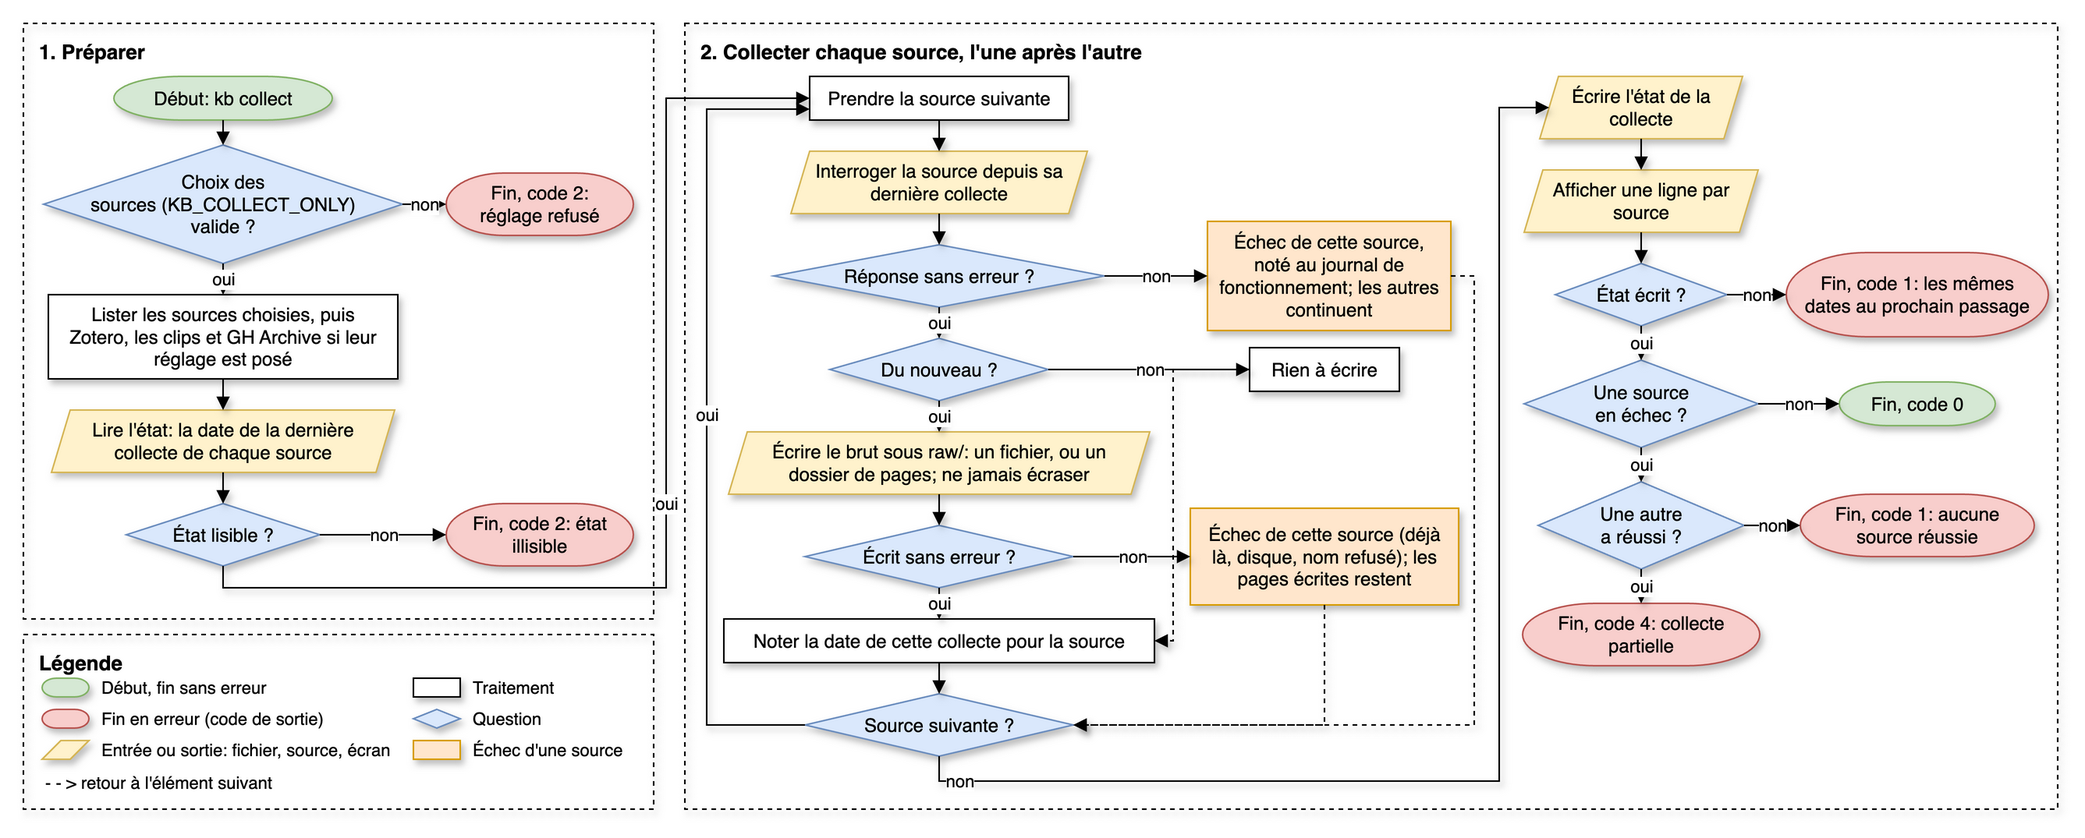
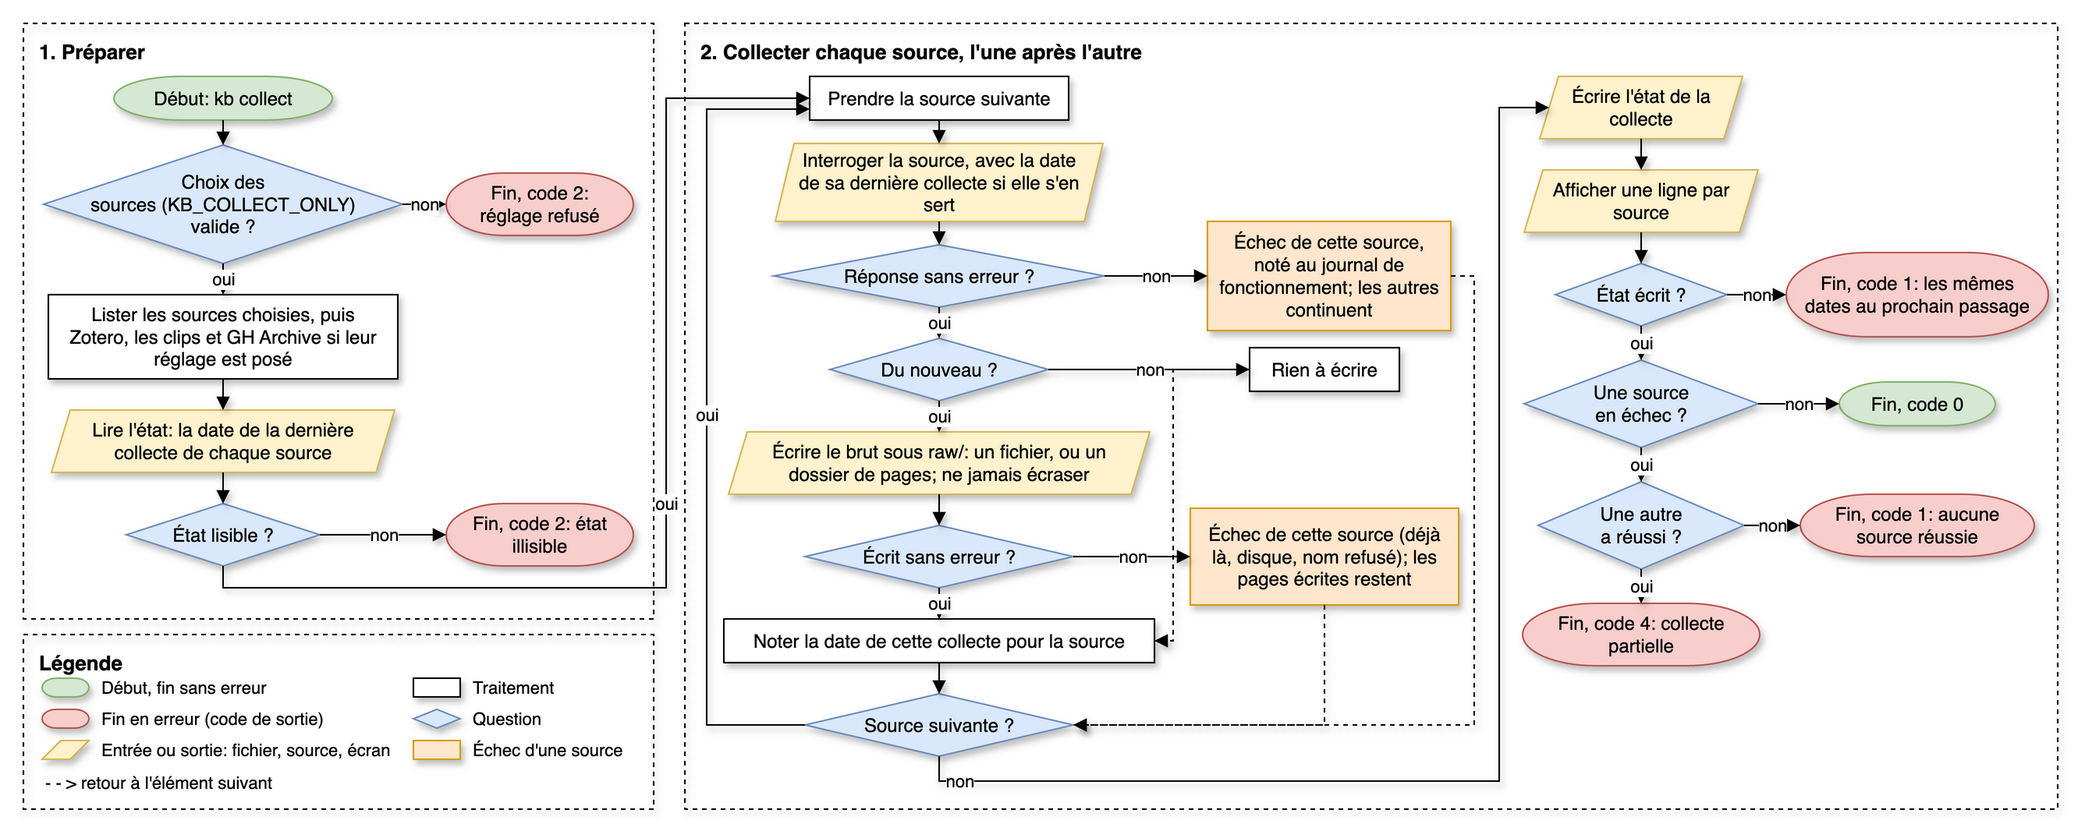
docs: apply the triaged review of the logic diagrams: the loops ask first, the journal and the commit can fail, the lock, the withdrawal and the fetch made exact, a note for code 1; and in the text the signals, the first collection, the temporary file, the GitHub quota and the refused command line (

Changed region(s): [[0.3726, 0.1535, 0.5279, 0.2763]]

diff --git a/documentation/import_et_base_pour_docu.md b/documentation/import_et_base_pour_docu.md
@@ -238,23 +238,29 @@ visent le commit `36c1e02`.
     sort en 2, et rien n'est collecté (`etl/collected_sources.py:64-86`).
 2. **La liste des sources.** Les sources choisies, dans l'ordre de `SOURCE_KINDS`, puis Zotero, les clips et
     GH Archive, chacun si sa variable est posée: `KB_ZOTERO_DIR`, `KB_VAULT_DIR`, `GOOGLE_APPLICATION_CREDENTIALS`
-    (`etl/collected_sources.py:110-131`). Sans `KB_GITHUB_TOKEN`, le journal de fonctionnement dit que l'API GitHub
-    accorde 60 requêtes par heure au lieu de 5 000 (`commands/collect_command.py:81-94`).
-3. **L'état.** `collection_state.json` donne la date de la dernière collecte réussie de chaque source. Absent, chaque
-    source collecte depuis le début; illisible, la commande sort en 2, et rien n'est collecté
-    (`etl/raw_store.py:188-216`, `commands/collect_command.py:54-56`).
+    (`etl/collected_sources.py:110-131`). Sans `KB_GITHUB_TOKEN`, si les releases ou les alertes GitHub sont
+    collectées, le journal de fonctionnement dit que l'API GitHub accorde 60 requêtes par heure au lieu de 5 000
+    (`commands/collect_command.py:29-34`, `commands/collect_command.py:81-94`).
+3. **L'état.** `collection_state.json` donne la date de la dernière collecte réussie de chaque source. Absent, ou sans
+    la source, la source fait sa première collecte, d'une étendue propre à chacune: sept jours pour tldr.tech, depuis
+    le 2026-05-01 pour arXiv (`etl/extract.py:69`, `core/config.py:29`, `core/config.py:37`). Illisible, la
+    commande sort en 2, et rien n'est collecté (`etl/raw_store.py:188-216`, `commands/collect_command.py:54-56`).
 4. **Chaque source, l'une après l'autre** (`etl/extract.py:63-91`). Le nom de la source et l'extension de ses
-    fichiers sont contrôlés, puis la source est interrogée depuis sa date (`etl/extract.py:118-123`). Sans rien de
+    fichiers sont contrôlés, puis la source est interrogée, avec la date de sa dernière collecte si elle s'en sert
+    (`etl/extract.py:118-123`): Zotero et les deux classements GitHub sont lus en entier à chaque fois
+    (`etl/sources/zotero.py:205-206`, `etl/sources/github/most_starred.py:34`,
+    `etl/sources/github/most_forked.py:33`). Sans rien de
     nouveau, rien n'est écrit (`etl/extract.py:124-125`). Sinon, le brut est écrit sous `raw/`: un fichier nommé par
     l'instant de la collecte, ou un dossier de ce nom avec un fichier par page (`etl/extract.py:126-142`). Chaque
     nom de page est contrôlé avant la première écriture: un nom refusé n'écrit rien (`etl/extract.py:133-137`).
-    Aucun fichier n'est écrasé: un fichier déjà là, ou le temporaire d'une autre écriture en cours, fait échouer la
-    source (`etl/raw_store.py:182-185`, `core/atomic_write.py:83-87`).
+    Aucun fichier n'est écrasé: un fichier déjà là, ou le temporaire d'une autre écriture, en cours ou interrompue,
+    fait échouer la source (`etl/raw_store.py:182-185`, `core/atomic_write.py:20-22`, `core/atomic_write.py:50-51`,
+    `core/atomic_write.py:83-87`, `core/atomic_write.py:95-100`).
 5. **L'échec d'une source.** Une erreur de la source ou de l'écriture est notée au journal de fonctionnement, avec
     sa trace si elle n'est pas prévue. La source garde sa date, les pages déjà écrites restent, et les autres sources
     continuent (`etl/extract.py:71-81`).
 6. **La date.** Une source réussie, même sans rien de nouveau, reçoit la date de cette collecte: l'instant du début
-    de la commande, le même pour toutes (`etl/extract.py:90`, `commands/collect_command.py:53`).
+    de la collecte, le même pour toutes (`etl/extract.py:90`, `commands/collect_command.py:53`).
 7. **L'état écrit, puis le résultat.** L'état est écrit après la dernière source (`etl/extract.py:93-99`,
     `etl/raw_store.py:219-230`). La commande affiche une ligne par source lancée, une par source sautée, et une pour
     l'état s'il n'est pas écrit (`commands/collect_command.py:62-78`).
@@ -265,9 +271,9 @@ Le tableau suivant donne les codes de sortie de `kb collect`.
 |---|---|---|
 | 0 | chaque source lancée a réussi | `commands/collect_command.py:115-124`, `commands/exit_codes.py:88-93` |
 | 1 | aucune source n'a réussi; ou l'état n'est pas écrit, et la collecte suivante repart des mêmes dates. Pour toute commande de `kb`, une exception que la commande ne traite pas: `kb` la journalise avec sa trace | `commands/collect_command.py:115-124`, `cli.py:261-265` |
-| 2 | `KB_COLLECT_ONLY` refusée, ou état illisible: rien n'est collecté. Pour toute commande de `kb`, `KB_DATA_DIR` ou `KB_LOG_TO_FILE` refusée, ou le fichier du journal de fonctionnement qui ne s'ouvre pas: rien n'est lancé | `commands/collect_command.py:42-46`, `commands/collect_command.py:54-56`, `cli.py:113-117`, `cli.py:232-240` |
+| 2 | `KB_COLLECT_ONLY` refusée, ou état illisible: rien n'est collecté. Pour toute commande de `kb`, `KB_DATA_DIR` ou `KB_LOG_TO_FILE` refusée, le fichier du journal de fonctionnement qui ne s'ouvre pas, ou la ligne de commande refusée: rien n'est lancé | `commands/collect_command.py:42-46`, `commands/collect_command.py:54-56`, `cli.py:113-117`, `cli.py:232-240`, `commands/exit_codes.py:33-39` |
 | 4 | collecte partielle: une source au moins a échoué, une autre au moins a réussi; l'état est écrit | `commands/exit_codes.py:48-57`, `commands/exit_codes.py:88-93` |
-| 143, 130 | SIGTERM, SIGINT (Ctrl-C): la collecte s'arrête; ce qui était écrit avant reste | `cli.py:252-260`, `commands/exit_codes.py:63-85` |
+| 143, 130 | SIGTERM, SIGINT (Ctrl-C): la collecte s'arrête; les fichiers bruts déjà écrits restent, mais l'état n'est pas écrit: chaque source garde sa date d'avant la commande, et la collecte suivante repart des mêmes dates | `cli.py:252-260`, `etl/extract.py:71`, `etl/extract.py:93-94`, `commands/exit_codes.py:63-85` |
 
 ## Le script d'agrégation et d'import: `kb import`
 
@@ -306,9 +312,9 @@ Le tableau suivant dit ce que compte chaque nombre du bilan.
 
 Les deux logigrammes de `kb import` en donnent la vue d'ensemble: lire et transformer, puis écrire en base, en une
 seule transaction. La liste numérotée de cette section, « Ce que l'import refuse, et ce qu'il garde » et le tableau
-des codes de sortie en donnent le détail, dont trois cas propres au texte: la page illisible, relue au prochain import
-(étape 3), les classements GitHub, jamais importés (étape 2), et la fenêtre de tendances déjà en base, écartée
-(étape 7). Les logigrammes suivent le commit `36c1e02`.
+des codes de sortie en donnent le détail, dont des cas propres au texte, par exemple la page illisible, relue au
+prochain import (étape 3), les classements GitHub, jamais importés (étape 2), et la fenêtre de tendances déjà en base,
+écartée (étape 7). Les logigrammes suivent le commit `36c1e02`.
 
 ![Logigramme de kb import, partie 1, lire et transformer, décrit en texte dans la section « L'enchaînement, pas à pas »](images/logigramme-import-lire_20261121.png)
 
@@ -316,7 +322,7 @@ des codes de sortie en donnent le détail, dont trois cas propres au texte: la p
 
 ![Logigramme de kb import, partie 2, écrire en base en une seule transaction, décrit en texte dans la section « L'enchaînement, pas à pas »](images/logigramme-import-ecrire_20261121.png)
 
-[La partie 2 du logigramme de `kb import` en taille réelle (image de 2 701 × 1 111 pixels)](images/logigramme-import-ecrire_20261121.png)
+[La partie 2 du logigramme de `kb import` en taille réelle (image de 2 701 × 1 119 pixels)](images/logigramme-import-ecrire_20261121.png)
 
 Le schéma suivant montre les étapes de `kb import`. Le paragraphe et la liste numérotée qui le suivent le décrivent
 en texte, étape par étape.
@@ -366,7 +372,9 @@ UTC, à la seconde (`commands/import_command.py:38`), qui nomme son journal:
 3. **La lecture.** Une collection est un fichier, ou un dossier de pages, nommé par sa date de collecte; un nom qui
     n'est pas une date fait rejeter la collection (`etl/raw_reading.py:92-106`). Chaque page absente du registre est
     lue entière (`etl/raw_reading.py:107-113`): le lecteur de la sorte en tire les entrées, puis convertit chaque
-    entrée en item (`etl/raw_reading.py:116-152`). Une page illisible est rejetée et pas inscrite: le prochain
+    entrée en item, ses dates mises en UTC
+    ([Les règles de nettoyage, écrites une fois dans le modèle](#les-regles-de-nettoyage-ecrites-une-fois-dans-le-modele))
+    (`etl/raw_reading.py:116-152`). Une page illisible est rejetée et pas inscrite: le prochain
     import la relit (`etl/raw_reading.py:125-132`). Une entrée que le lecteur refuse est rejetée seule, avec le motif
     qu'il écrit (`etl/raw_reading.py:134-136`); une entrée que la conversion en item refuse est rejetée seule, son
     motif sans aucune valeur (`without_values`, `etl/raw_reading.py:139-148`). Un fichier de tendances est lu
@@ -391,9 +399,11 @@ UTC, à la seconde (`commands/import_command.py:38`), qui nomme son journal:
     `etl/withdrawals.py:41`). Un fichier de tendances est inscrit et écrit dans un seul `SAVEPOINT`; une fenêtre
     déjà en base est écartée et écrite au journal d'import (`etl/file_writing.py:71-91`).
 8. **Le journal, puis la validation.** Si le journal de cette seconde existe déjà, l'import s'arrête et sa
-    transaction est annulée: tout a été lu et écrit, rien n'est gardé, code 2 (`etl/load.py:127-129`,
-    `etl/load.py:163-166`, `etl/load.py:80-86`, `commands/import_command.py:48-50`). Sinon le journal est écrit,
-    puis la base valide (`COMMIT`) (`etl/load.py:130-138`).
+    transaction est annulée: tout a été lu et écrit, rien n'est gardé, code 2, et `kb import` est à relancer
+    (`etl/load.py:127-129`, `etl/load.py:163-166`, `etl/load.py:80-86`, `commands/import_command.py:48-50`). Sinon le
+    journal est écrit, puis la base valide (`COMMIT`) (`etl/load.py:130-138`). Si l'écriture du journal ou la
+    validation échoue, le journal est supprimé, rien n'est gardé, et la commande sort en 1 (`etl/load.py:139-146`,
+    `commands/import_command.py:54-59`).
 9. **Le bilan**, affiché entre deux lignes vides (`commands/import_command.py:64`,
     `commands/import_command.py:68-74`).
 
@@ -423,7 +433,7 @@ Le tableau suivant donne les codes de sortie de `kb import`.
 |---|---|---|
 | 0 | l'import a réussi | `commands/import_command.py:60-65` |
 | 1 | l'import a échoué: rien n'est écrit, ni dans la base ni au journal; une base PostgreSQL absente ou injoignable en fait partie. Pour toute commande de `kb`, une exception que la commande ne traite pas: `kb` la journalise avec sa trace | `commands/import_command.py:54-59`, `cli.py:261-265` |
-| 2 | réglage de la base refusé ou fichier SQLite absent: rien n'est lu; journal de cette seconde déjà là: tout est lu, rien n'est gardé. Pour toute commande de `kb`, `KB_DATA_DIR` ou `KB_LOG_TO_FILE` refusée, ou le fichier du journal de fonctionnement qui ne s'ouvre pas: rien n'est lancé | `commands/import_command.py:34-37`, `commands/import_command.py:45-53`, `cli.py:113-117`, `cli.py:232-240` |
+| 2 | réglage de la base refusé ou fichier SQLite absent: rien n'est lu; journal de cette seconde déjà là: tout est lu, rien n'est gardé. Pour toute commande de `kb`, `KB_DATA_DIR` ou `KB_LOG_TO_FILE` refusée, le fichier du journal de fonctionnement qui ne s'ouvre pas, ou la ligne de commande refusée: rien n'est lancé | `commands/import_command.py:34-37`, `commands/import_command.py:45-53`, `cli.py:113-117`, `cli.py:232-240`, `commands/exit_codes.py:33-39` |
 | 143, 130 | SIGTERM, SIGINT (Ctrl-C): reçu avant la validation, rien n'est gardé; reçu après, l'import et son journal sont gardés; reçu pendant, sur PostgreSQL, l'issue de l'import est inconnue et son journal est gardé. Un second Ctrl-C peut couper l'annulation, SIGTERM ignore un second signal (README, « Importer le brut dans la base ») | `etl/load.py:80-86`, `etl/load.py:139-160`, `commands/exit_codes.py:63-85` |
 
 ## Le nettoyage et l'homogénéisation des formats

diff --git a/docs/journaling/2026-11-21-placer-les-logigrammes-dans-la-page-des-donnees.md b/docs/journaling/2026-11-21-placer-les-logigrammes-dans-la-page-des-donnees.md
@@ -22,12 +22,13 @@ décrivent le commit figé d'E1 (`d28137e`), et Sabine a décidé le 21/11 de le
 dans la documentation leur version à jour de `main`.
 
 Une relecture neuve du 21/11, contre `origin/main` 36c1e02, avait trouvé deux écarts avec `main` et quatre cas que
-les dessins ne montrent pas. Ce travail corrige les deux écarts dans les dessins, écrit les quatre cas dans le texte,
-et donne à la collecte la description pas à pas que la page n'avait pas.
+les dessins ne montrent pas. La relecture de cette PR, par un second sous-agent neuf, en a trouvé treize de plus, que
+time-knight a tous fait corriger. Ce travail corrige les dessins, écrit dans le texte ce qu'ils ne montrent pas, et
+donne à la collecte la description pas à pas que la page n'avait pas.
 
 ## Le comment
 
-### Deux corrections du dessin, tirées du code
+### Les corrections du dessin, tirées du code
 
 La première : l'échec d'une source part au journal de fonctionnement, par `logger.error`, pas au journal d'import de
 `journals/`, que `kb collect` n'écrit pas.
@@ -52,7 +53,21 @@ def check_database_exists(location: DatabaseLocation) -> None:
 (`src/k_b/database/location.py:167-170`). Une base PostgreSQL absente ou injoignable répond par une erreur du moteur à
 la première requête, que `run_import` rend en code 1 (`src/k_b/commands/import_command.py:54-56`). La question devient
 « Réglage de la base valide, fichier SQLite présent ? », sa fin « code 2 : réglage refusé ou fichier SQLite absent »,
-et le texte dit le code 1 de PostgreSQL.
+et une note du dessin dit le code 1 de toute autre erreur, dont une base PostgreSQL absente ou injoignable.
+
+Les autres corrections viennent de la relecture de la PR, chacune vérifiée dans le code :
+- **l'écriture du journal et la validation peuvent échouer**, après la question « Journal de cette seconde déjà
+  là ? » : le journal est alors supprimé, et la commande sort en 1 (`src/k_b/etl/load.py:139-146`). Une question
+  « Journal écrit et transaction validée ? » les suit, avec sa fin « code 1 : rien en base, journal supprimé » ;
+- **les deux boucles posent leur question d'abord** : « Reste-t-il un fichier ? » et « Reste-t-il un item ? ». Un
+  import sans fichier, ou un fichier sans item, est un cas normal : le bilan de la page en donne un, `0 raw read`.
+  Le dessin à « prendre le suivant » d'abord l'envoyait à un fichier qui n'existe pas ;
+- **le verrou des écrivains** n'est pris à cette étape que sur PostgreSQL ; SQLite le prend à la première écriture
+  (`src/k_b/database/engine.py:43-47`) ;
+- **un retrait** demande au moins une entrée et aucun rejet (`src/k_b/etl/withdrawals.py:24`, `:41`) ;
+- **une source est interrogée avec sa date si elle s'en sert** : Zotero et les classements GitHub sont lus en entier à
+  chaque collecte (`src/k_b/etl/sources/zotero.py:205-206`) ;
+- la légende violette dit « Journal et validation », la seule case qu'elle colore.
 
 ### Les sources `.drawio` à côté des PNG
 
@@ -82,7 +97,7 @@ et 4.3).
 
 La page ne décrivait `kb collect` que dans sa vue d'ensemble. La section « La commande qui précède l'import :
 `kb collect` » lui donne la même forme que l'import : la commande, le logigramme, une liste numérotée en sept étapes,
-chacune avec son renvoi, et le tableau des codes de sortie (`documentation/import_et_base_pour_docu.md:212-270`). Les
+chacune avec son renvoi, et le tableau des codes de sortie (`documentation/import_et_base_pour_docu.md:212-276`). Les
 codes communs à toutes les commandes, lus dans `cli.py`, y entrent : 2 pour un réglage de `kb` ou un fichier du journal
 de fonctionnement refusé (`src/k_b/cli.py:113-117`, `:232-240`), 1 pour une exception que la commande ne traite pas
 (`src/k_b/cli.py:261-265`), 130 et 143 pour un signal (`src/k_b/cli.py:252-260`).
@@ -101,10 +116,11 @@ entrée et aucun rejet (`etl/withdrawals.py:24`, `:41`).
 |---|---|---|
 | Lisibilité à 688 pixels | l'image à la largeur de la colonne, un lien vers sa taille réelle, la description en texte (tri du Second, 21/11) | un cadre qui défile en deux dimensions (une règle CSS de plus, une lecture plus lourde); redessiner en portrait (de 45 min à 1 h par dessin, hors budget) |
 | Le mot de l'échec d'une source | « journal de fonctionnement », le mot de la page et de `conventions.md` | « log », proposé par la relecture : un mot anglais, à baliser `lang="en"` dans le texte |
-| Le code 1 de PostgreSQL | dans le texte (étape 1 et tableau des codes) | une case et une flèche de plus dans le dessin : la case de lecture du registre n'a pas la place d'une sortie |
+| Le code 1 de PostgreSQL | une note dans le cadre du dessin, « Toute autre erreur, dont une base PostgreSQL absente ou injoignable : fin, code 1, rien en base », et le texte (étape 1, tableau des codes) | une case et une flèche de plus depuis la lecture du registre : la case n'a pas la place d'une sortie, et l'erreur peut venir d'ailleurs (disque, seconde validation d'un item) |
 | « Écarté » dans l'écriture | libellé gardé, le texte dit le journal d'import | « Écarté, écrit au journal d'import » : la case est bornée par le trait pointillé qui la suit, et la relecture le donnait comme facultatif |
 | Le nom des fichiers | `logigramme-<commande>_20261121`, comme les planches de #619 et les sources de `docs/merise/` | le nom de l'oral blanc (`-paysage`) : il dit la mise en page, pas le contenu |
 | Le nom de la page | `import_et_base_pour_docu.md` gardé (consigne du Second) | `donnees.md` : il vient avec la PR du README, qui fusionne en dernier |
+| Les deux boucles de l'écriture | la question d'abord, « Reste-t-il un fichier ? », « Reste-t-il un item ? » (tri de time-knight) | « prendre le suivant » d'abord, comme à l'oral blanc : faux pour un import sans fichier ou un fichier sans item |
 
 ## Preuve
 
@@ -116,13 +132,14 @@ entrée et aucun rejet (`etl/withdrawals.py:24`, `:41`).
 | aucun bloc `tEXt` dans les PNG ; aucun `agent`, `etag` ni `modified` dans les `.drawio` | rien de personnel dans les fichiers publiés |
 | aucun caractère `Cc` ni `Cf`, aucune espace avant « : » ni « ; » dans les deux fiches | les règles du dépôt pour `documentation/` |
 | `uv run pytest` : 5664 passed, 365 deselected | la PR ne touche pas au code |
-| relecture par un sous-agent neuf, en lecture seule, des dessins et du texte contre le code | chaque fait vérifié par un second lecteur (constats triés par le Second) |
+| relecture par un sous-agent neuf, en lecture seule, des dessins et du texte contre le code : 13 constats, tous corrigés sur le tri de time-knight | chaque fait vérifié par un second lecteur |
+| relecture courte du delta par un autre sous-agent neuf : [à remplir] | les dessins redessinés et les cases changées tiennent contre le code |
 
 ## Ce que tu dois pouvoir défendre
 
 1. **Pourquoi deux représentations de l'import, le schéma Mermaid et les logigrammes ?** Le schéma Mermaid donne les
    neuf étapes en une colonne ; les logigrammes donnent chaque question, chaque branche et chaque fin avec son code.
-   Le texte de la section décrit les deux (`documentation/import_et_base_pour_docu.md:305-399`).
+   Le texte de la section décrit les deux (`documentation/import_et_base_pour_docu.md:311-409`).
 2. **Que fait `kb import` si la base PostgreSQL est éteinte ?** Rien n'est lu ni écrit : la lecture du registre
    échoue à la première requête, et la commande sort en 1 (`src/k_b/commands/import_command.py:54-56`).
 3. **Une source en panne bloque-t-elle la collecte ?** Non : l'erreur est rattrapée par source, notée au journal de

diff --git a/documentation/accessibilite_pour_docu.md b/documentation/accessibilite_pour_docu.md
@@ -162,7 +162,7 @@ onze pages, et comment il a été vérifié.
 | 2. Utiliser correctement la hiérarchie des titres | Tenue: un titre de niveau 1 par page, puis aucun saut de niveau. | Le HTML construit |
 | 3.1. Rédiger des intitulés de liens explicites | Tenue (règle « Des liens explicites » des [règles appliquées aux fiches](#les-regles-appliquees-aux-fiches)). | Le HTML construit |
 | 3.2. Savoir utiliser les titres de liens en dernier recours | Tenue dans le texte des fiches: aucun lien n'y a d'attribut `title`. Les deux liens du logo du thème, dans l'en-tête et dans le menu, en portent un, le nom du site (« Limites »). | Le HTML construit |
-| 4.1 à 4.3. Images décoratives, informatives, images-liens | Tenue: trois images informatives, les logigrammes de la fiche de l'import et de la base, chacune avec son texte de remplacement; aucune image décorative ni image-lien. | Le HTML construit |
+| 4.1 à 4.3. Images décoratives, informatives, images-liens | Tenue: trois images informatives, les logigrammes de la fiche de l'import et de la base, chacune avec son texte de remplacement; aucune image décorative ni image-lien dans le texte des fiches. | Le HTML construit |
 | 4.4. Images informatives complexes: un court texte de remplacement et une description détaillée | Tenue pour les huit schémas des fiches (un dans le service d'IA, quatre dans l'architecture, un dans l'API IA, deux dans l'import et la base): chacun a un titre et une description courts (`accTitle` et `accDescr`, que Mermaid rend en `title` et `desc` du dessin), et le texte qui le suit pour description détaillée. Le rendu dans un navigateur n'est pas vérifié. Tenue pour les trois logigrammes de la fiche de l'import et de la base: chacun a un texte de remplacement court, qui nomme la section de sa description détaillée, et un lien vers son fichier en taille réelle. | La relecture |
 | 5. Utiliser correctement les listes à puces et listes numérotées | Tenue: des listes Markdown, en retrait de quatre espaces, aucune liste tapée à la main. | Le HTML construit |
 | 6.1. Déclarer les citations en ligne et les blocs de citations | Tenue: une citation en ligne est un `q`, un bloc de citation un `blockquote` (règle « Des citations déclarées » des [règles appliquées aux fiches](#les-regles-appliquees-aux-fiches)). Chaque paire de guillemets tapés a été triée: celles qui restent entourent un titre, un mot dont on parle ou un libellé. | Le HTML construit; la relecture |
